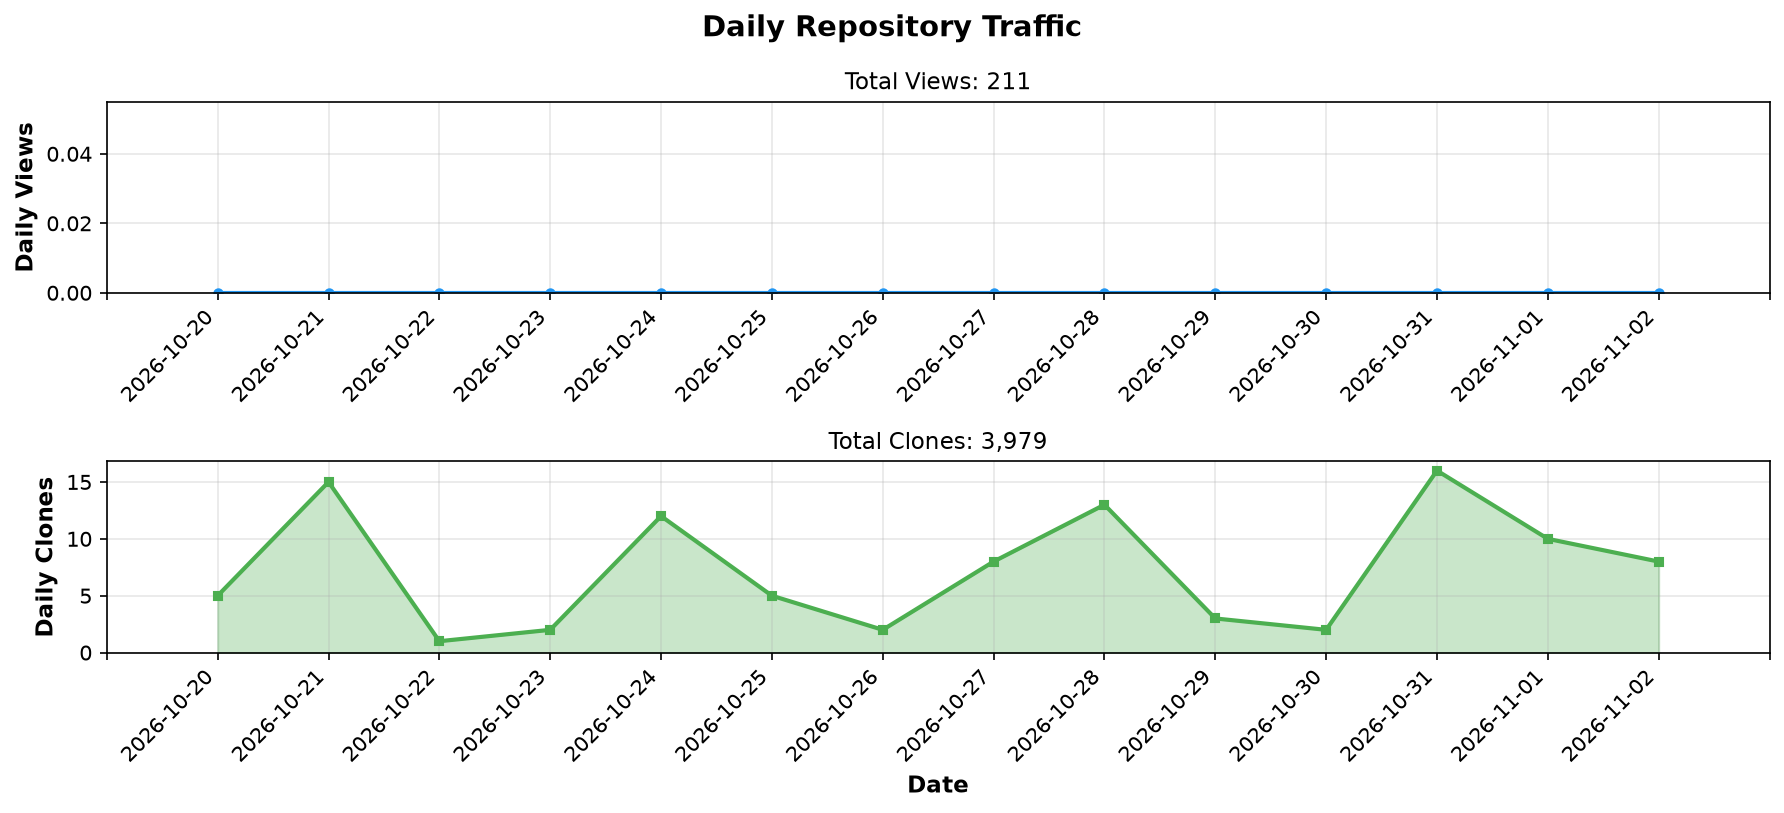
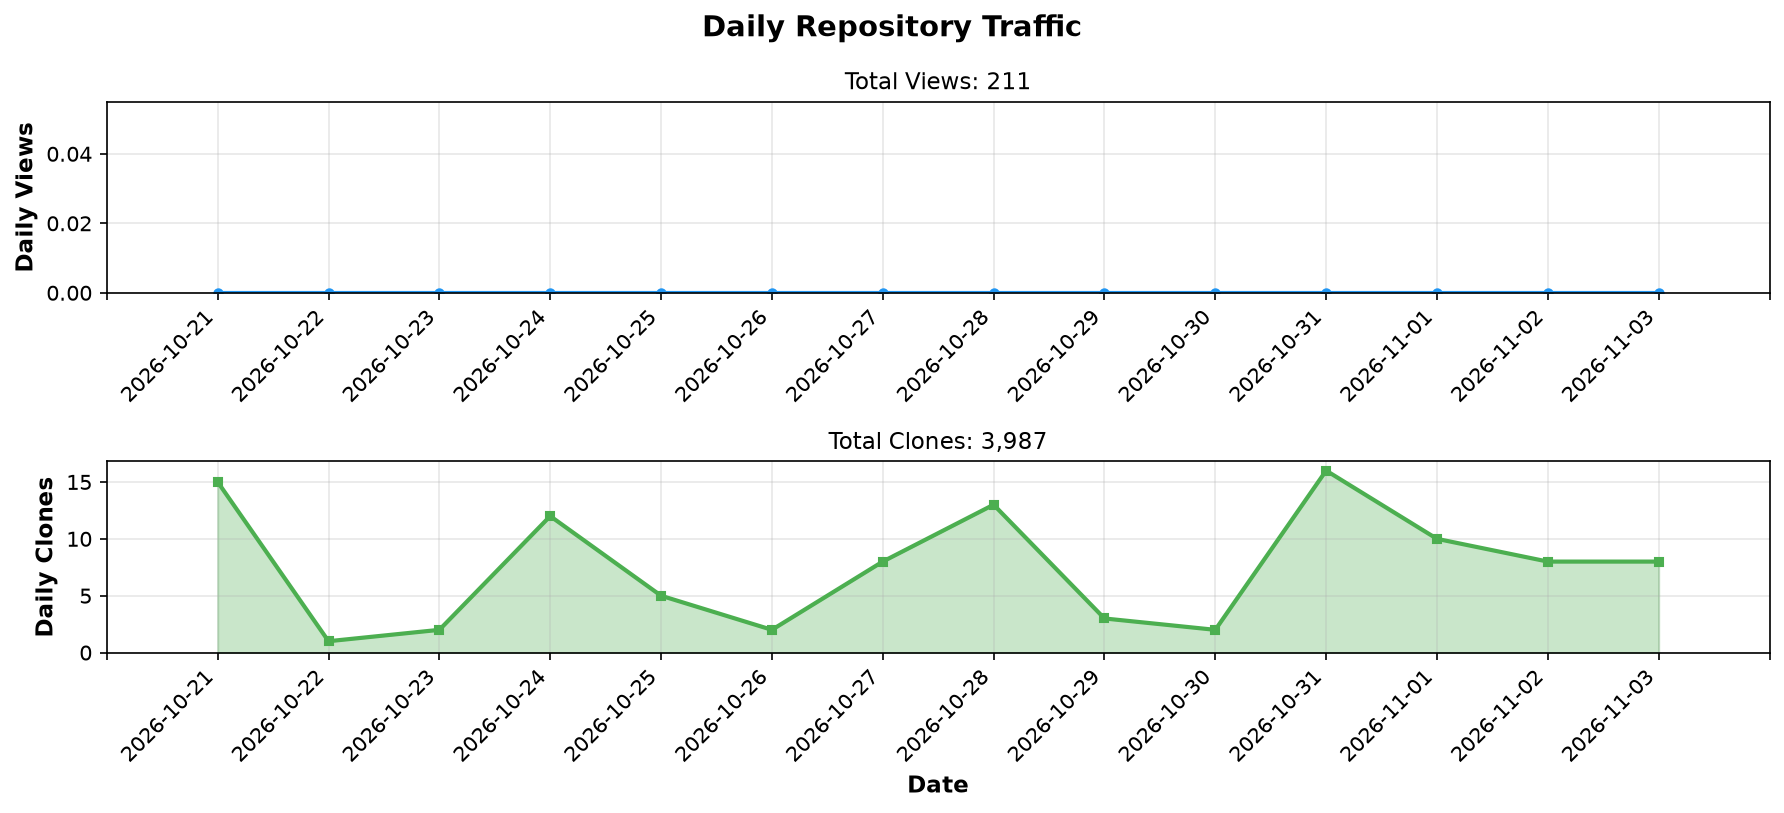
chore: update repository stats [skip ci]

diff --git a/README.md b/README.md
@@ -88,9 +88,9 @@ I'm BonoJovi (Yoshihiro NAKAHARA), the project initiator.
 | Metric | Count |
 |--------|-------|
 | 👁 **Total Views** | **211** |
-| 📦 **Total Clones** | **3,979** |
+| 📦 **Total Clones** | **3,987** |
 
-*Last Updated: 2026-11-04 01:07 UTC*
+*Last Updated: 2026-11-05 01:08 UTC*
 
 </div>
 <!-- STATS_END -->
